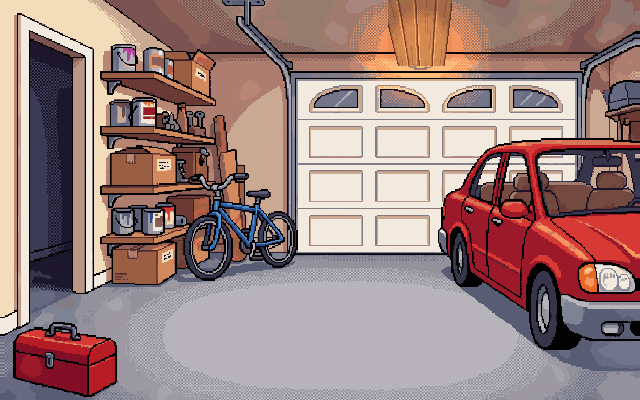
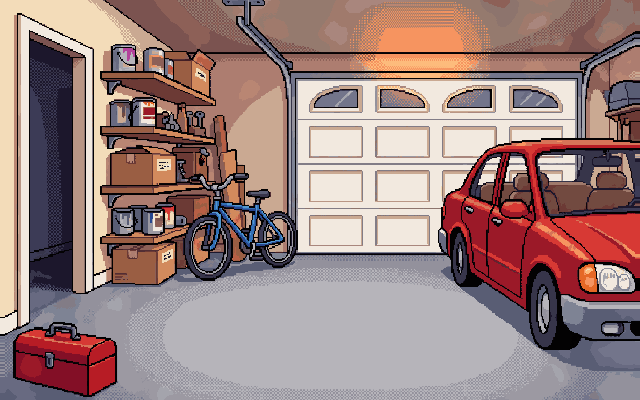
Paint the ceiling across behind the garage lamp; stop stale room transitions after the Menu button
The lamp's original inpaint left a patch of plain boards under it; the
ceiling glow is now blended across from either side so it runs straight
through. Separately, leaving to the menu mid-walk let the room change keep
running on the torn-down scene, which then fired a fade timer on a destroyed
image when the game was resumed. The scene's async flows now stop when the
scene has been torn down or recreated, and the fade ignores a dead image.

Changed region(s): [[0.5938, 0.0, 0.7188, 0.18]]

diff --git a/src/scenes/GameScene.ts b/src/scenes/GameScene.ts
@@ -128,6 +128,13 @@ export class GameScene extends Phaser.Scene {
   /** Everything clickable in the room, resolved by nearest footprint rather than Phaser zones. */
   private targets: Target[] = [];
   private _busy = false;
+  /**
+   * Bumped whenever the scene is (re)created or torn down. Anything that continues after an
+   * `await` checks it first: the Menu button can stop the scene mid-walk, and Phaser reuses the
+   * same instance when the game is resumed, so a stale sequence would otherwise carry on inside
+   * the new room and leave timers on destroyed objects.
+   */
+  private generation = 0;
   /** Items carried, watched so that anything new setting Lucy off works wherever it came from. */
   private carried = 0;
   private unwatchInventory?: () => void;
@@ -148,6 +155,7 @@ export class GameScene extends Phaser.Scene {
   }
 
   create(data: GameData = {}): void {
+    this.generation++;
     this.dialogue = new Dialogue(this);
     this.breakfast = new BreakfastController(this);
     this.basketball = new BasketballController(this);
@@ -211,9 +219,12 @@ export class GameScene extends Phaser.Scene {
   /** The party is back at the bottom of the slide; a word about the ride, then the room is theirs. */
   private async backFromSlide(): Promise<void> {
     this.busy = true;
+    const gen = this.generation;
     this.placeParty(this.room.restPoint);
     await this.sayLucy('Again! Again!');
+    if (this.stale(gen)) return;
     await this.sayTheo('What a day! Mom and Dad will be home soon.');
+    if (this.stale(gen)) return;
     this.busy = false;
     this.hints.reset();
   }
@@ -227,20 +238,24 @@ export class GameScene extends Phaser.Scene {
    */
   private async wakeUp(): Promise<void> {
     this.busy = true;
+    const gen = this.generation;
     this.theo.sprite.setVisible(false);
     this.setBed('bed_asleep');
 
     void this.fade.in(2600);
     await this.wait(3400);
+    if (this.stale(gen)) return;
     playSfx('ding');
     this.setBed('bed_sit');
     await this.dialogue.say('*yaaawn* Good morning!', 245, 212, { duration: WAKE_GREETING_MS, voice: 'theo' });
+    if (this.stale(gen)) return;
     // Out from under the covers and down onto the carpet, then hand over to the walking sprite.
     this.setBed('bed_empty');
     const stander = this.add.image(276, 322, 'theo_front').setOrigin(0.5, 1).setDepth(BED_DEPTH + 12);
     this.roomObjects.push(stander);
     await this.tween(stander, { x: WAKE_STAND.x, y: 332 }, 200, 'Quad.easeOut');
     await this.tween(stander, { y: WAKE_STAND.y }, 200, 'Quad.easeIn');
+    if (this.stale(gen)) return;
     stander.destroy();
     this.roomObjects = this.roomObjects.filter((o) => o !== stander);
     this.theo.setPosition(WAKE_STAND.x, WAKE_STAND.y);
@@ -254,6 +269,11 @@ export class GameScene extends Phaser.Scene {
 
   update(_time: number, deltaMs: number): void {
     this.ambience?.update(Math.min(deltaMs / 1000, 0.1));
+  }
+
+  /** True when the scene has been torn down or recreated since `gen` was taken. */
+  private stale(gen: number): boolean {
+    return gen !== this.generation;
   }
 
   wait(ms: number): Promise<void> {
@@ -314,6 +334,7 @@ export class GameScene extends Phaser.Scene {
   }
 
   private teardown(): void {
+    this.generation++;
     this.basketball.stop();
     this.rocket.stop();
     this.unwatchInventory?.();
@@ -329,8 +350,10 @@ export class GameScene extends Phaser.Scene {
 
   private async enterRoom(walkIn: boolean): Promise<void> {
     this.busy = true;
+    const gen = this.generation;
     if (walkIn) await this.moveParty(this.room.restPoint);
     else this.placeParty(this.room.restPoint);
+    if (this.stale(gen)) return;
 
     if (this.room.id === 'kitchen' && !store.get().lucyJoined) {
       store.update((s) => (s.lucyJoined = true));
@@ -344,14 +367,19 @@ export class GameScene extends Phaser.Scene {
       this.lucy = new Character(this, 'lucy', GAME_WIDTH + 24, door.y);
       this.lucy.face(-1);
       await this.wait(400);
+      if (this.stale(gen)) return;
       await this.lucy.walkPath([door, ...findPath(this.walkMap, door, lp)], true, LUCY_RUN_SPEED);
+      if (this.stale(gen)) return;
       jamb.destroy();
       this.lucy.face(this.theo.x - lp.x);
       this.breakfast.ensureState();
       await this.sayLucy("Theo! I'm sooo hungry. Can you make breakfast?");
+      if (this.stale(gen)) return;
       await this.sayTheo('Sure, Lucy! I just need to find a bowl, a spoon, cereal and milk.');
     }
+    if (this.stale(gen)) return;
     if (this.room.id === 'sport_court') await this.arriveAtCourt();
+    if (this.stale(gen)) return;
     this.busy = false;
     this.hints.reset();
   }
@@ -517,10 +545,13 @@ export class GameScene extends Phaser.Scene {
       await this.rocket.launcherClicked();
       return;
     }
+    const gen = this.generation;
     await this.sayTheo(getFlag(store.get(), FLAGS.slideDone) ? 'One more time down the slide!' : "Let's go down the slide! Hold on, Lucy!");
+    if (this.stale(gen)) return;
     this.hints.stop();
     this.hoverKind = 'default';
     await this.fadeOut();
+    if (this.stale(gen)) return;
     this.scene.start('Slide');
   }
 
@@ -596,11 +627,13 @@ export class GameScene extends Phaser.Scene {
     unlockAudio();
     this.dialogue.clear();
     this.clearGlints();
+    const gen = this.generation;
     try {
       if (walkTo) await this.theo.walkPath(findPath(this.walkMap, this.theo, walkTo));
+      if (this.stale(gen)) return;
       await action();
     } finally {
-      this.busy = false;
+      if (!this.stale(gen)) this.busy = false;
     }
   }
 
@@ -612,9 +645,11 @@ export class GameScene extends Phaser.Scene {
       return;
     }
     this.hints.reset();
+    const gen = this.generation;
     const img = this.pickupSprites.get(h.id);
     if (img) await this.popImage(img);
     else await this.popItem(h.item, h.zone.x + h.zone.w / 2, h.zone.y + h.zone.h / 2);
+    if (this.stale(gen)) return;
     store.update((s) => {
       addItem(s, h.item);
       markPickedUp(s, this.room.id, h.id);
@@ -661,6 +696,7 @@ export class GameScene extends Phaser.Scene {
     this.busy = true;
     unlockAudio();
     this.dialogue.clear();
+    const gen = this.generation;
     try {
       if (!exitOpen(this.room.id, exit, store.get())) {
         // Locked: no walking over, just a glance that way and the excuse.
@@ -670,10 +706,13 @@ export class GameScene extends Phaser.Scene {
         return;
       }
       await this.moveParty(exit.walkTo);
+      if (this.stale(gen)) return;
       await this.unlockWithKey(exit);
+      if (this.stale(gen)) return;
       this.hints.stop();
       this.hoverKind = 'default';
       await this.fadeOut();
+      if (this.stale(gen)) return;
       const from = this.room.id;
       store.update((s) => {
         s.previousRoom = from;
@@ -694,7 +733,7 @@ export class GameScene extends Phaser.Scene {
       this.busy = false;
       await this.enterRoom(true);
     } finally {
-      this.busy = false;
+      if (!this.stale(gen)) this.busy = false;
     }
   }
 

diff --git a/src/systems/DitherFade.ts b/src/systems/DitherFade.ts
@@ -46,13 +46,15 @@ export class DitherFade {
 
   private set(level: number): void {
     this.level = level;
+    // A fade asked for after the scene shut down has nothing to draw on.
+    if (!this.image.active) return;
     this.image.setTexture(`${KEY}_${level}`).setVisible(level > 0);
   }
 
   private run(target: number, ms: number): Promise<void> {
     this.timer?.remove(false);
     const steps = Math.abs(target - this.level);
-    if (!steps) return Promise.resolve();
+    if (!steps || !this.image.active) return Promise.resolve();
     const stepMs = Math.max(16, ms / steps);
     const dir = Math.sign(target - this.level);
     return new Promise((resolve) => {

diff --git a/art/pixellab/garage.md b/art/pixellab/garage.md
@@ -27,8 +27,9 @@ a second render. Cost: 40 generations.
 
 ## Ambient (2026-09-18)
 
-- The hanging lamp (x 388-452, y 0-66) was inpainted out of `bg_0`/`bg_1` (`/inpaint-v3` on a
-  256x128 crop at (300,0), seed 111; only the mask rect pasted back, frame 1's highlight shift
-  reapplied). `lamp.png` is the lamp cut out of the original by flood-filling the orange ceiling away
+- The hanging lamp (x 388-452, y 0-72) was removed from `bg_0`/`bg_1` by painting the ceiling
+  across behind it: each row is a blend of the pixels just left and right of the rect (matching
+  the checker dither's parity), so the glow and the beam lines run straight through. An earlier
+  `/inpaint-v3` attempt (seed 111) drew a patch of plain boards there, which looked wrong. `lamp.png` is the lamp cut out of the original by flood-filling the orange ceiling away
   from the crop's edges, so the shade's dome stays solid (a colour key had left it see-through). It rocks about (420,0) with a code-drawn glow, and a moth
   (`ambient/moth.png`, open seed 103 candidate 3, closed seed 104 candidate 2) circles it.
